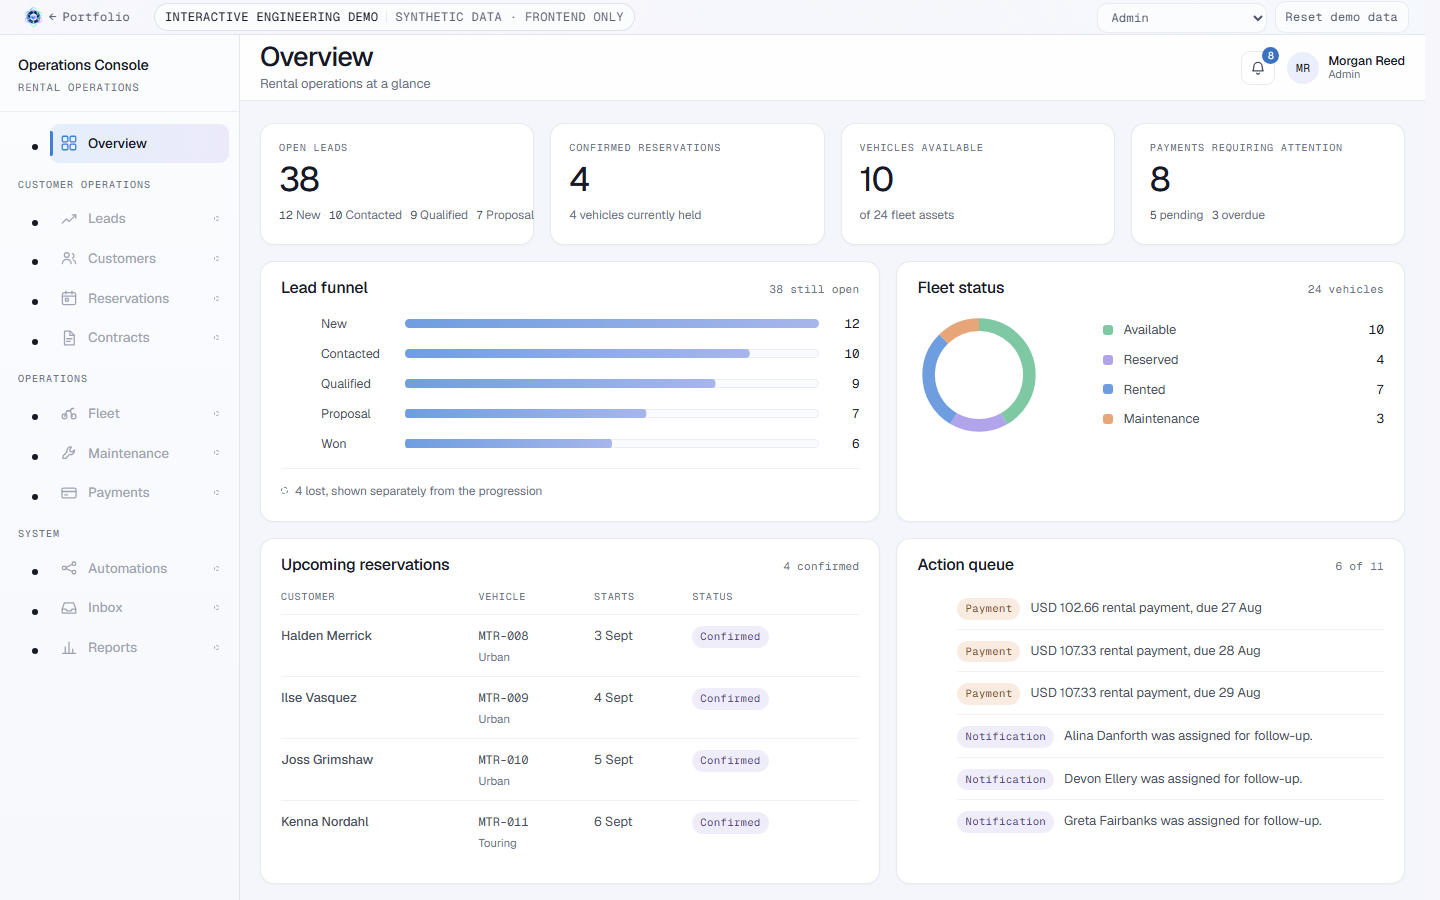
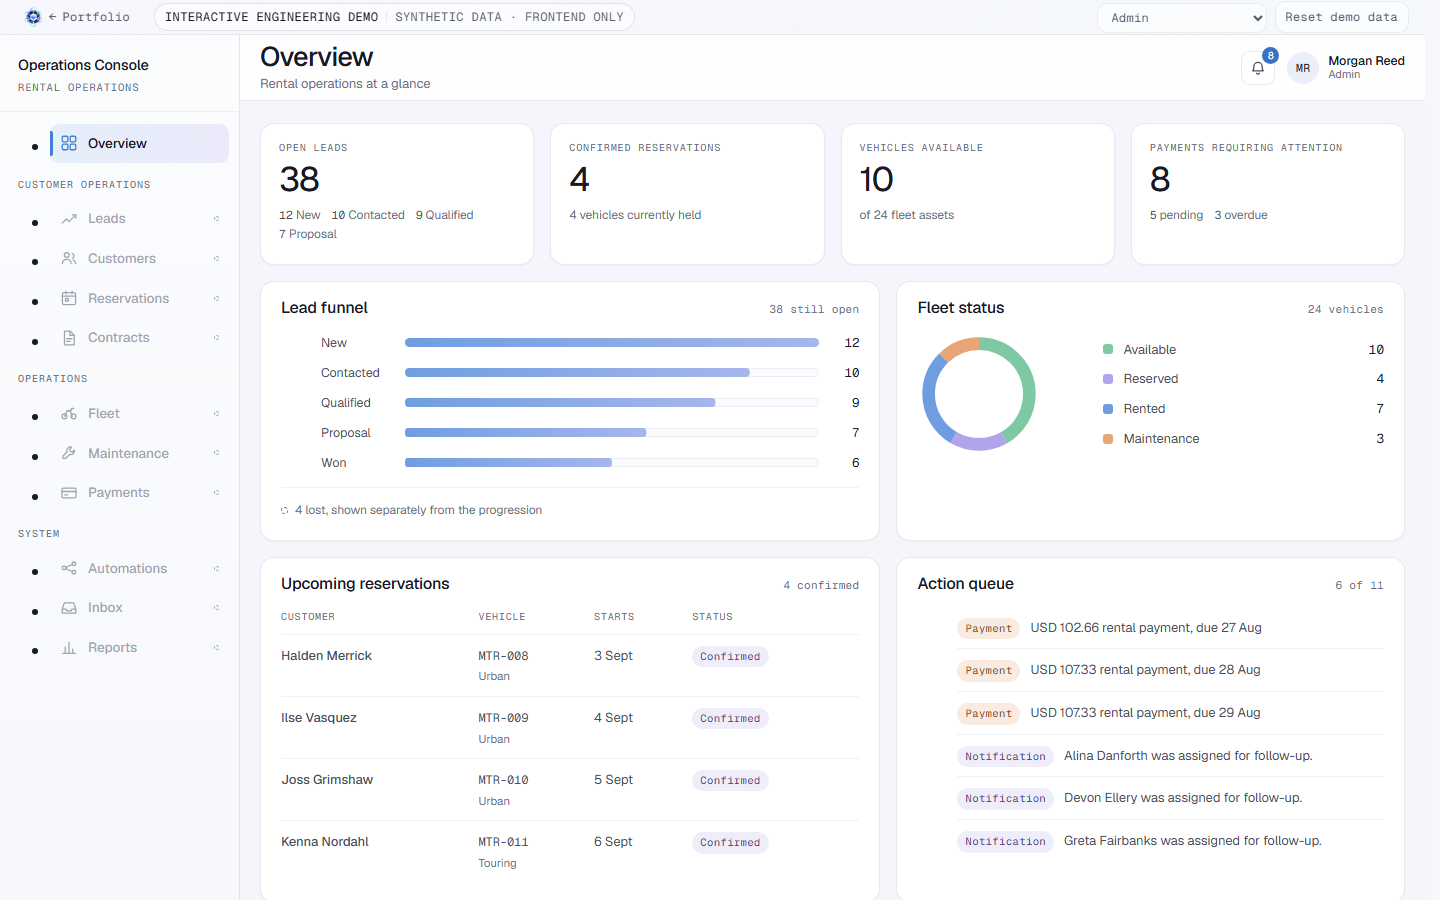
docs: record the production verification of the operations demo
Screenshots recaptured from production over HTTPS rather than a local
build, and the public QA results written into the baseline: both UI
suites green against the live site, routes and robots as intended, the
mark byte-identical to its source, role state surviving a page close and
reopen, a fresh context seeing the pristine seed, and the shared host's
other application still healthy after the deployment.

diff --git a/docs/QA_BASELINE.md b/docs/QA_BASELINE.md
@@ -1070,6 +1070,32 @@ derived mark  public/brand/mark-120.png, 105x120, 17.3 KB
 rendered      30px tall in site navigation, 22px in the demo bar
 ```
 
+### Screenshots
+
+`qa/shots/stage09c21/` — captured from **production over HTTPS**, not from a
+local build: the Overview at 1440x900, 1024x768 and 390x844, the notification
+sheet at 390x844, and the Finance Analyst role at 1440x900.
+
+### Public verification
+
+Run with `QA_BASE=https://intelligent-systems-lab.duckdns.org`, after
+`npm run deploy:safe`.
+
+```
+09C2 suite / 09C2.1 suite    140/140 and 111/111 against production
+routes                       / 200, /demos/operations 200, /demos 404,
+                             /specimen 200, icons and mark 200
+mark served                  byte-identical to public/brand/mark-120.png
+robots                       <meta name="robots" content="noindex, nofollow">
+                             on the demo route
+role persistence             survives closing and reopening the page in the
+                             same browsing context
+demo isolation               a fresh context sees the pristine seed, not the
+                             first context's state
+reset                        restores Admin, 38/4/10/8 and 8 unread
+shared host                  appclubedaeconomia.com.br still 200 afterwards
+```
+
 ### Regression
 
 All run against the same local production build.
